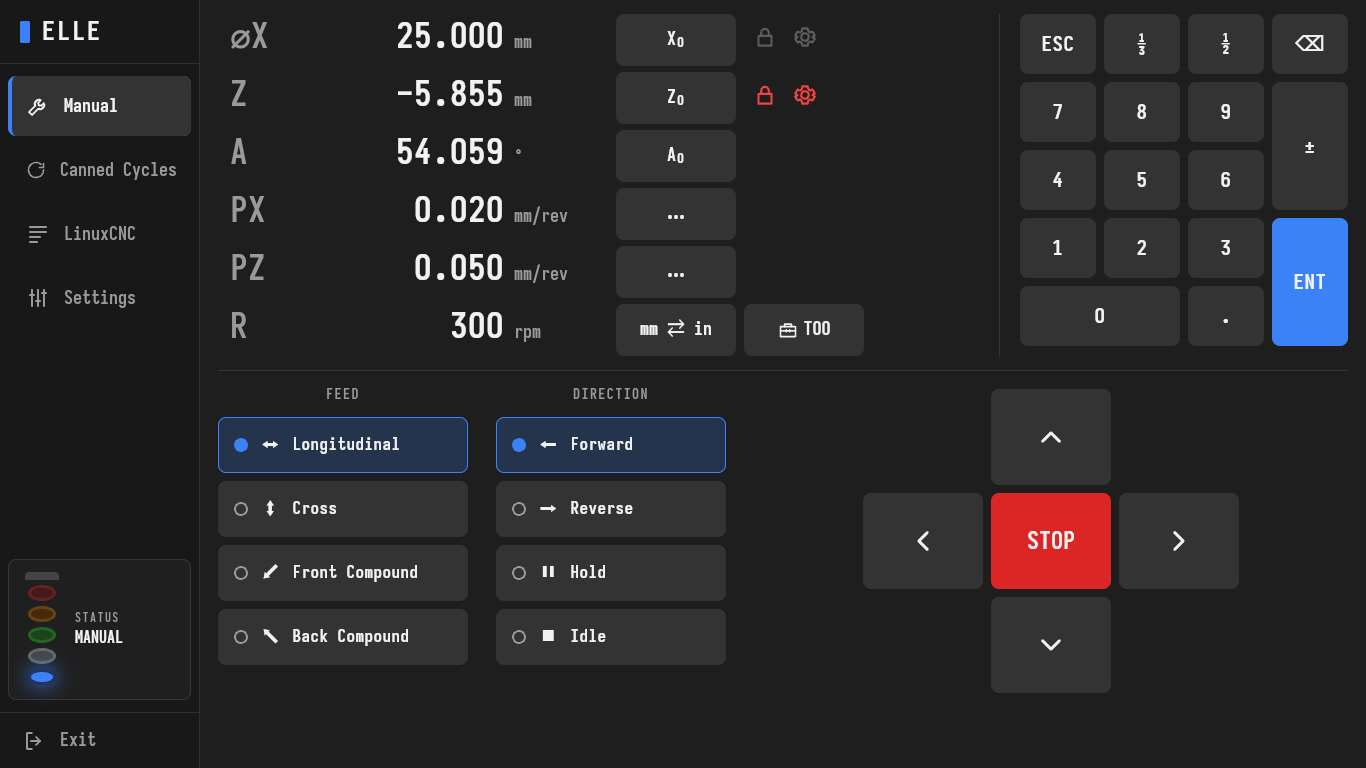
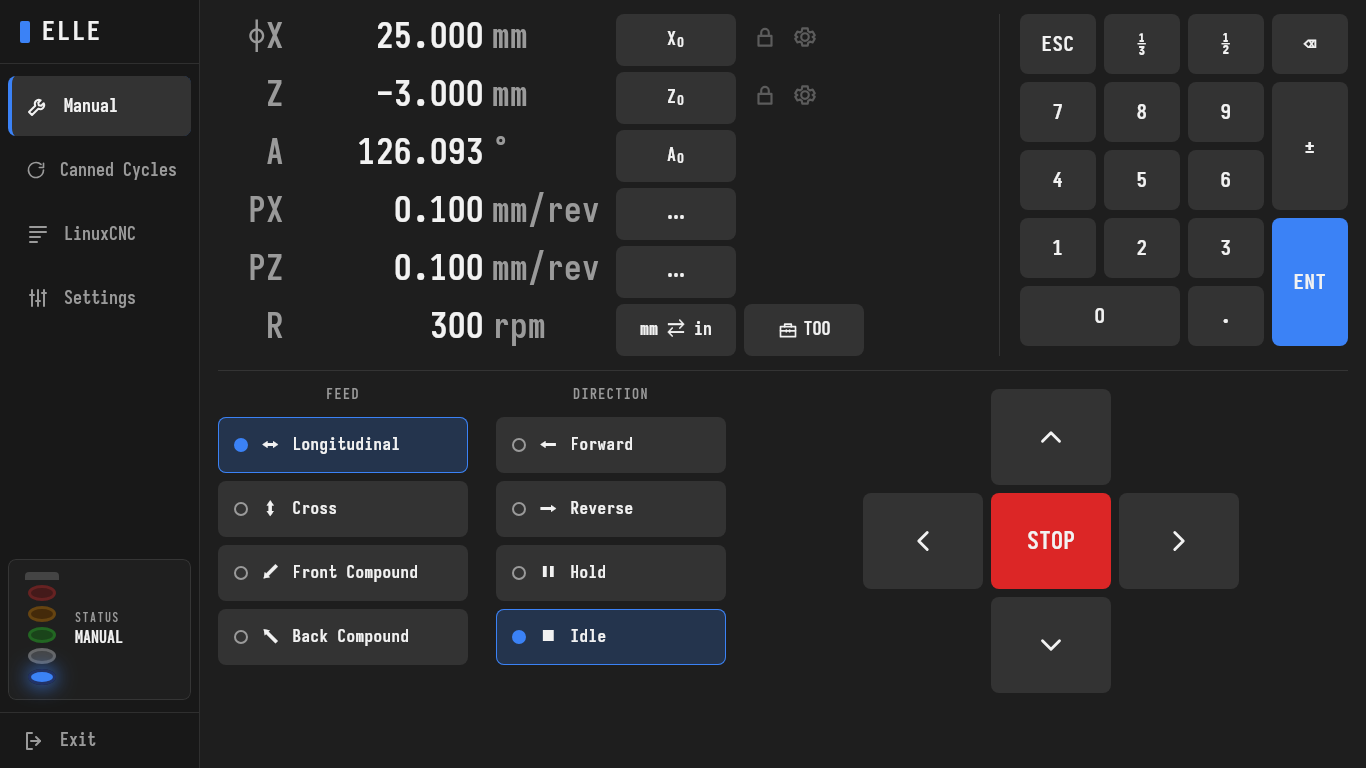
README: new screenshots (2.0.0 panel), turning screenshot, release link
Taken in demo mode with default settings: manual (Idle, front tool post),
threading with the M12x1.75-6g preset and its diagram, a thread preview with
the green progress, and turning with a chamfer.

diff --git a/README.md b/README.md
@@ -10,6 +10,7 @@ spindle encoder.
 ![Manual mode](docs/panel-manual.png)
 ![Threading](docs/panel-threading.png)
 ![Cycle preview](docs/panel-preview.png)
+![Turning](docs/panel-turning.png)
 
 ## How it fits together
 
@@ -56,9 +57,11 @@ Debug builds use the checked libstdc++ with AddressSanitizer and UndefinedBehavi
 
 ## Running
 
-- **On the lathe:** `sudo apt install ./elle_<version>_amd64.deb` (this replaces the Electron
-  `elle-app` package), copy `/usr/share/elle/machine` to your configuration directory, adapt
-  `lathe.hal` to your hardware and start `linuxcnc lathe.ini`.
+- **On the lathe:** download the `.deb` from the
+  [latest release](https://github.com/tinic/el-linuxcnc-electron/releases/latest),
+  `sudo apt install ./elle_<version>_amd64.deb` (this replaces the Electron `elle-app` package),
+  copy `/usr/share/elle/machine` to your configuration directory (e.g. `~/linuxcnc/configs/elle`),
+  adapt `lathe.hal` to your hardware and start `linuxcnc lathe.ini`.
 - **Anywhere, without a machine:** `elle --demo --windowed` runs the real C++ stack against a
   simulated lathe.
 - **Panel development:** `cd ui && npm run dev` serves the panel with hot reload. Open it in a
